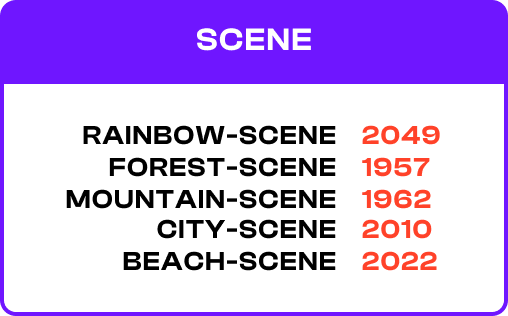
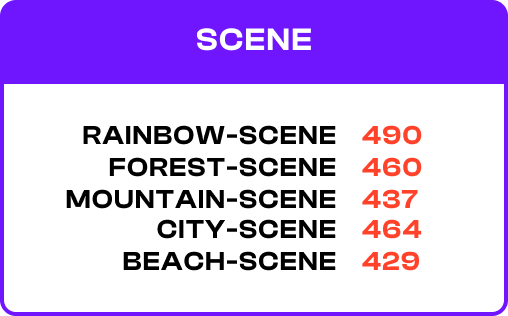
New Rarity table. (#6)
* New Rarity table.

* Fixing responsive views.

* New Rarity table.

* Fixing responsive views.

diff --git a/index.html b/index.html
@@ -239,13 +239,45 @@
           </div>
 
           <div class="row">
-            <div class="col-md-12">
-              <h4 class="text-center">Being updated...</h4>
+            <div class="col-xxs-12 col-xs-4 col-sm-4 col-md-4">
+              <img src="assets/rarity-case-shape.png" class="img-fluid" alt="Case shape">
             </div>
-            <div class="col-md-4 col-md-offset-4">
-              <div style="width:100%;height:0;padding-bottom:100%;position:relative;"><iframe src="https://giphy.com/embed/E6jscXfv3AkWQ" width="100%" height="100%" style="position:absolute" frameBorder="0" class="giphy-embed" allowFullScreen></iframe></div><p></p>
+            <div class="col-xxs-12 col-xs-4 col-sm-4 col-md-4">
+              <img src="assets/rarity-case-color.png" class="img-fluid" alt="Case color">
             </div>
-
+            <div class="col-xxs-12 col-xs-4 col-sm-4 col-md-4">
+              <img src="assets/rarity-button-set.png" class="img-fluid" alt="Button set">
+            </div>
+          </div>
+          <div class="row">
+            <div class="clearfix visible-xs"></div>
+            <div class="col-xxs-12 col-xs-4 col-sm-4 col-md-4">
+              <img src="assets/rarity-scene.png" class="img-fluid" alt="Scene">
+            </div>
+            <div class="col-xxs-12 col-xs-4 col-sm-4 col-md-4">
+              <img src="assets/rarity-pet-race.png" class="img-fluid" alt="Pet race">
+            </div>
+            <div class="col-xxs-12 col-xs-4 col-sm-4 col-md-4">
+              <img src="assets/rarity-pet-color.png" class="img-fluid" alt="Pet color">
+            </div>
+            <div class="clearfix visible-xs visible-sm"></div>
+            <div class="col-xxs-12 col-xs-4 col-sm-4 col-md-4">
+              <img src="assets/rarity-eyes.png" class="img-fluid" alt="Eyes">
+            </div>
+            <div class="col-xxs-12 col-xs-4 col-sm-4 col-md-4">
+              <img src="assets/rarity-mouth.png" class="img-fluid" alt="Mouth">
+            </div>
+            <div class="col-xxs-12 col-xs-4 col-sm-4 col-md-4">
+              <img src="assets/rarity-hair.png" class="img-fluid" alt="Hair style">
+            </div>
+          </div>
+          <div class="row">
+            <div class="col-xxs-12 col-xs-4 col-sm-4 col-sm-offset-2 col-md-4 col-md-offset-2">
+              <img src="assets/rarity-facial.png" class="img-fluid" alt="Facial features">
+            </div>
+            <div class="col-xxs-12 col-xs-4 col-sm-4 col-md-4">
+              <img src="assets/rarity-clothes.png" class="img-fluid" alt="Clothes">
+            </div>
           </div>
 
 
@@ -269,8 +301,9 @@
                 <div class="inner-info">
                   <div class="vcenter">
                     <div class="number">1</div>
-                    <div class="label">Click "Purchase Now"</div>
-                    <div class="description">Check the button above. It will check our server and show you the wallet
+                    <div class="label">Purchase</div>
+                    <div class="description">Check  the button above.
+                      It will check our server and show you the wallet
                       we're currently using and the price.
                     </div>
                   </div>
@@ -282,7 +315,7 @@
                 <div class="inner-info">
                   <div class="vcenter">
                     <div class="number">2</div>
-                    <div class="label">Destination  wallet</div>
+                    <div class="label">Current  wallet</div>
                     <div class="description">Check price and wallet displayed. Make the transaction from your Yoroi or Daedalus wallet.</div>
                   </div>
                 </div>
